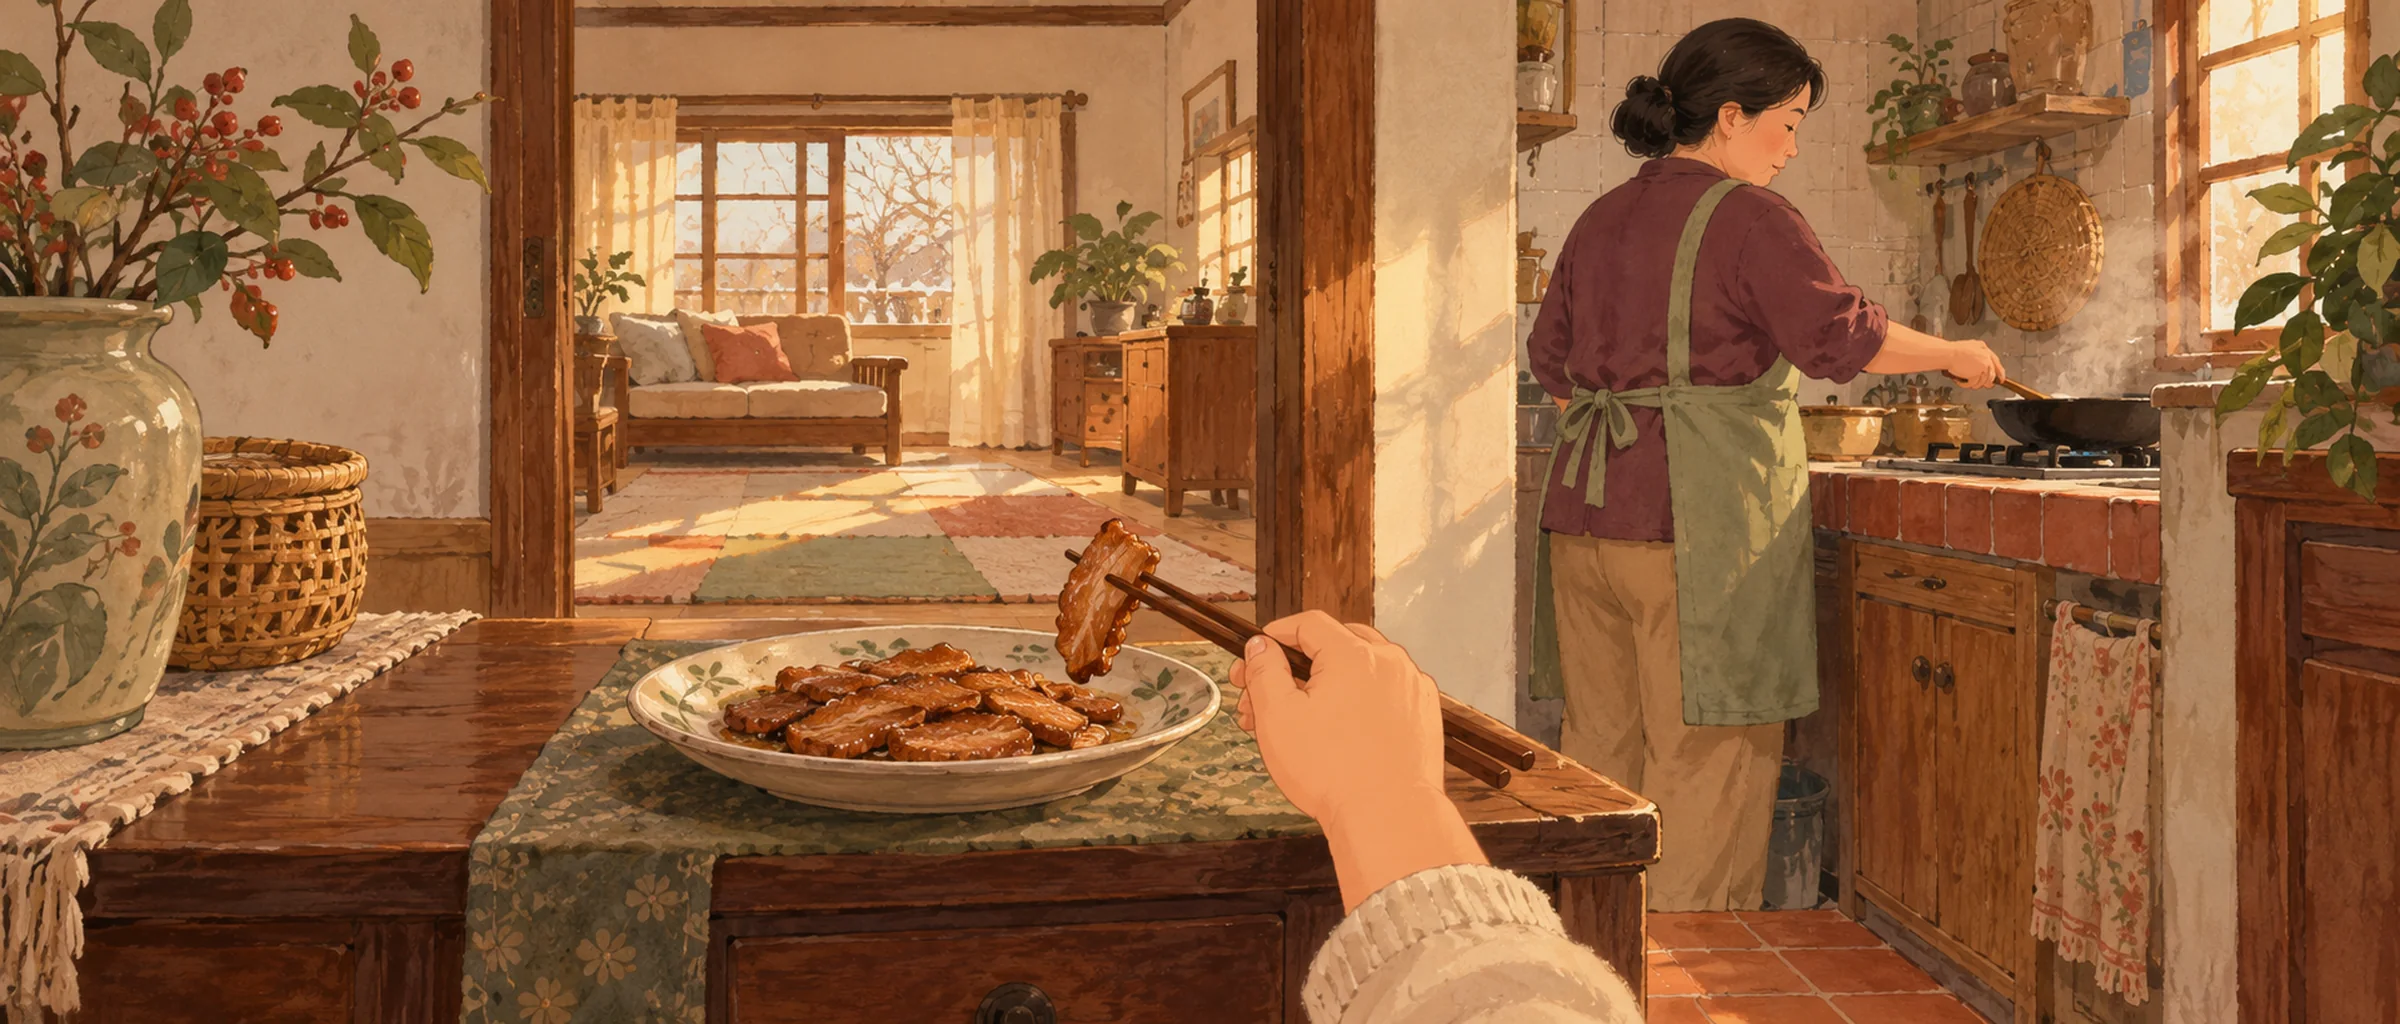
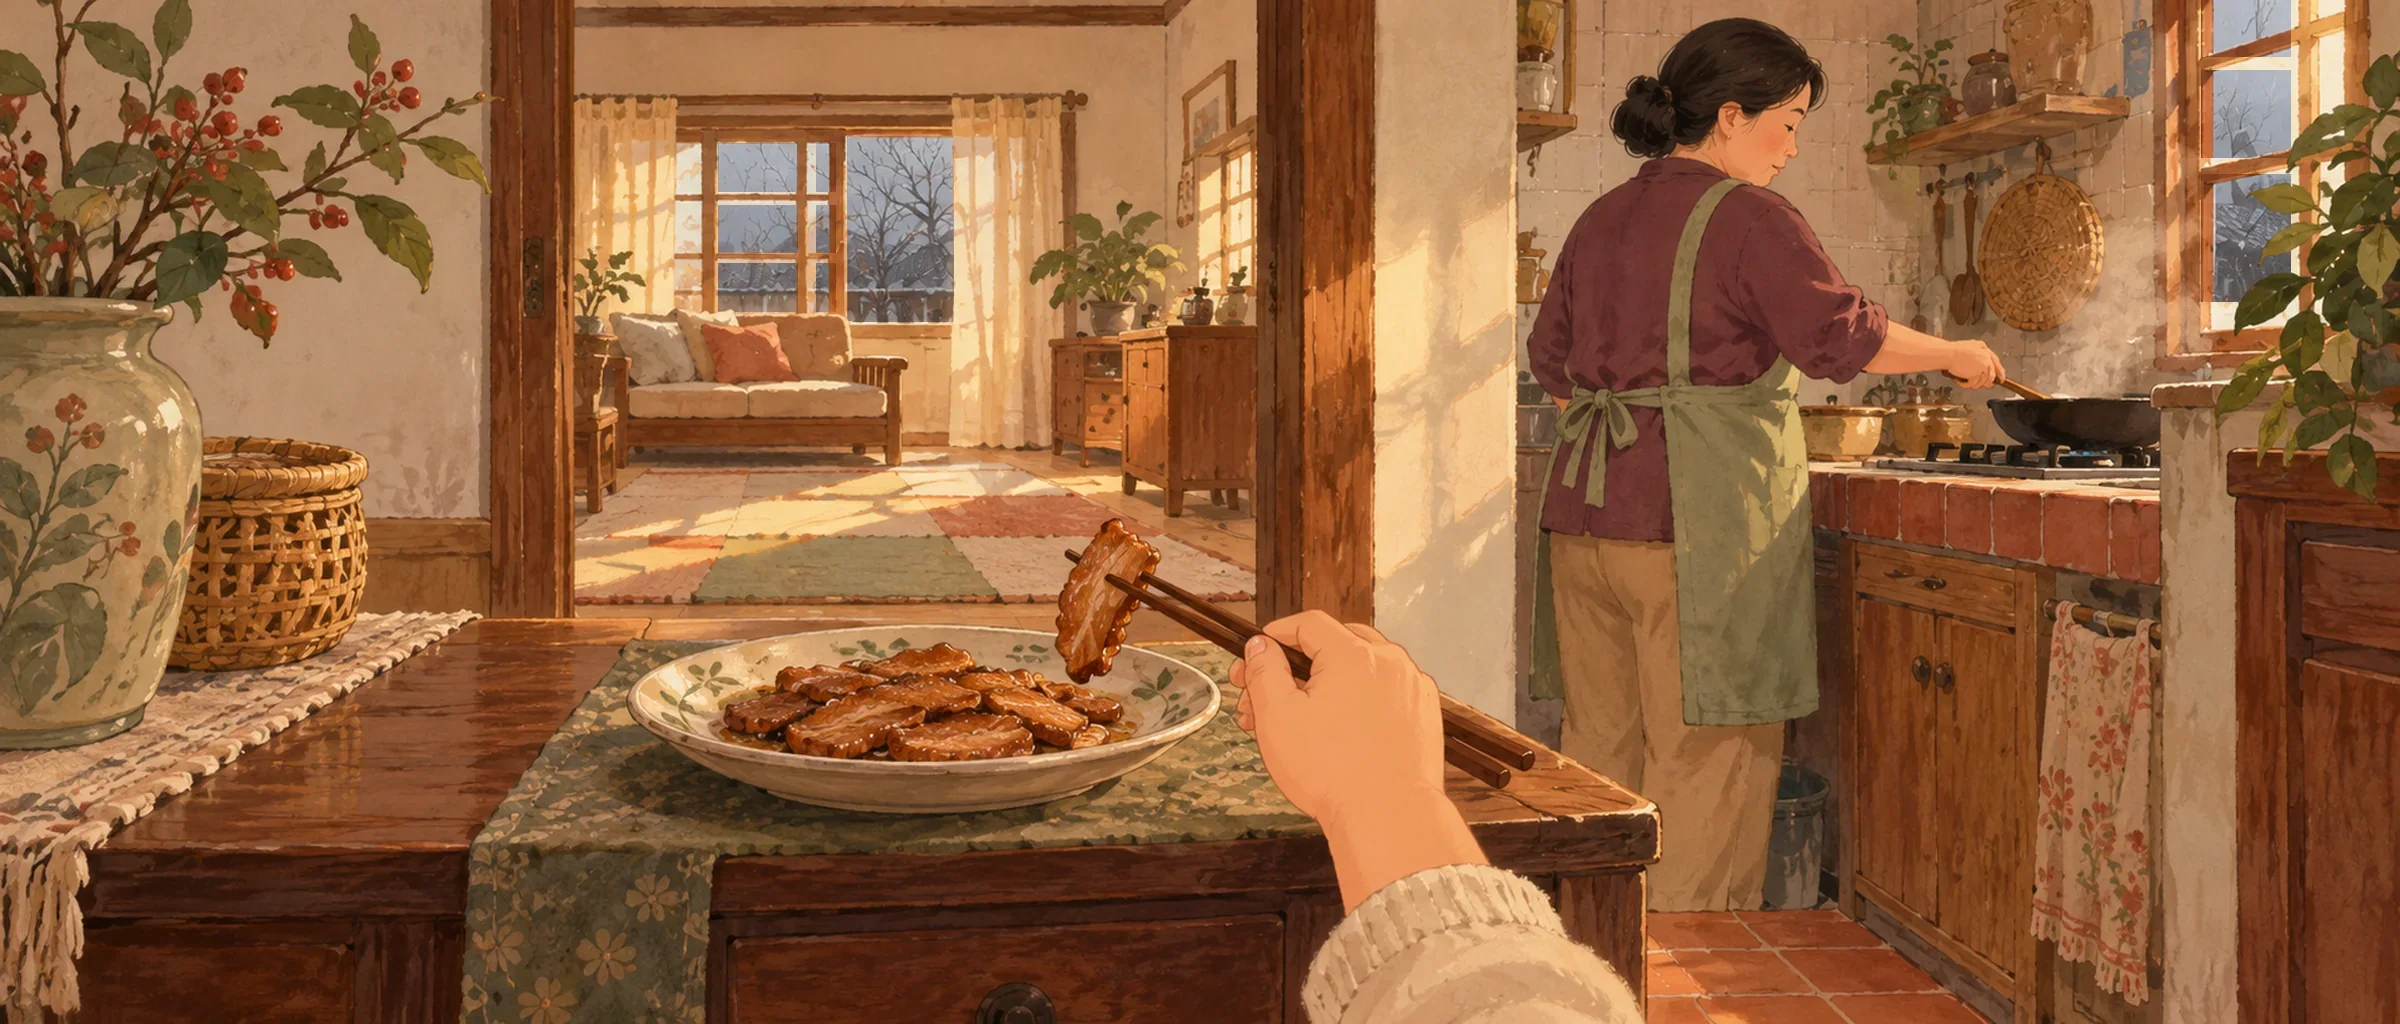
fix(mandarin): 〈羹湯〉修正單1：窗外改雨景、碗鍋改肉羹、第1幕選項圖移出碗外、第4幕標記移到臉旁並取消連線

Changed region(s): [[0.2812, 0.125, 0.4062, 0.3125], [0.9062, 0.0, 0.9688, 0.3125]]

diff --git a/apps/mandarin/src/data/situationLessons/schema.js b/apps/mandarin/src/data/situationLessons/schema.js
@@ -138,7 +138,7 @@ export function validateSituationLesson(lesson) {
       check(t.options?.length>=1 && t.options.length<=3,'strategy option count');
       if(t.revealOnResult)check(t.type==='predict' && text(t.resultReminder),'result prediction reminder');
       if(t.type==='predict'){check(t.options.length>=2 && t.options.every(text) && t.options.includes('我不確定') && t.answer===undefined,'prediction ungraded');check(t.revealAt && t.refs.some(r=>r.para===t.revealAt.para && r.sentences.includes(t.revealAt.n)),'prediction reveal');}
-      else {check(Array.isArray(t.answer) && t.answer.length>0 && t.answer.every(n=>Number.isInteger(n) && t.options[n]),'strategy answer');for(const o of t.options){check(text(o.label) && percent(o.x) && percent(o.y),'strategy hotspot');refs(o.refs);check(o.refs.length>0,'hotspot evidence');if(o.presentation!==undefined)check(o.presentation==='picture' && text(o.sprite) && percent(o.width) && o.width>0 && t.type==='emotionClue','picture clue');if(o.sprite)check(/^[\w-]+$/.test(o.sprite) && (o.width===undefined || percent(o.width) && o.width>0),'strategy sprite');if(o.face){check(percent(o.face.width) && percent(o.face.height),'face halo');check(o.markerOffset?.length===2 && o.markerOffset.every(Number.isFinite),'face marker offset');}for(const state of o.states || [])check(text(lesson.meter.states[state]),'strategy meter word');}if(t.type==='emotionClue')check(t.answer.length<=2,'emotion clue count');if(t.type==='causeEffect')check(t.result?.length===2 && t.result.every(percent) && text(t.explanation),'cause result');}
+      else {check(Array.isArray(t.answer) && t.answer.length>0 && t.answer.every(n=>Number.isInteger(n) && t.options[n]),'strategy answer');for(const o of t.options){check(text(o.label) && percent(o.x) && percent(o.y),'strategy hotspot');refs(o.refs);check(o.refs.length>0,'hotspot evidence');if(o.presentation!==undefined)check(o.presentation==='picture' && text(o.sprite) && percent(o.width) && o.width>0 && t.type==='emotionClue','picture clue');if(o.sprite)check(/^[\w-]+$/.test(o.sprite) && (o.width===undefined || percent(o.width) && o.width>0),'strategy sprite');if(o.face){check(percent(o.face.width) && percent(o.face.height),'face halo');check(o.markerOffset?.length===2 && o.markerOffset.every(Number.isFinite),'face marker offset');}for(const state of o.states || [])check(text(lesson.meter.states[state]),'strategy meter word');}if(t.type==='emotionClue')check(t.answer.length<=2,'emotion clue count');if(t.type==='causeEffect')check((t.result===undefined || Array.isArray(t.result) && t.result.length===2 && t.result.every(percent)) && text(t.explanation),'cause result');}
     }
     check(s.questions?.length>0,'questions');
     for(const q of s.questions){

diff --git a/apps/mandarin/src/data/situationLessons/115AG6H11.js b/apps/mandarin/src/data/situationLessons/115AG6H11.js
@@ -450,17 +450,17 @@ export default {
           "type": "causeEffect",
           "prompt": "宜蘭人為什麼特別愛吃羹？",
           "hint": "連起天氣和羹的特性。",
-          "focus": 50,
+          "focus": 58.75,
           "options": [
             {
               "label": "多雨溼冷，羹湯保溫祛寒",
-              "x": 46,
-              "y": 40,
+              "x": 51.5,
+              "y": 22,
               "sprite": "rain",
               "width": 4,
               "markerOffset": [
                 0,
-                14
+                12
               ],
               "refs": [
                 {
@@ -482,13 +482,13 @@ export default {
             },
             {
               "label": "羹湯比較便宜",
-              "x": 54,
-              "y": 40,
+              "x": 66,
+              "y": 50,
               "sprite": "coins",
               "width": 4,
               "markerOffset": [
                 0,
-                14
+                12
               ],
               "refs": [
                 {
@@ -519,8 +519,8 @@ export default {
             0
           ],
           "result": [
-            50,
-            61
+            50.5,
+            46
           ],
           "explanation": "多雨溼冷的天氣，配上能保溫的羹湯，滿足祛寒的需要。",
           "refs": [
@@ -2625,7 +2625,7 @@ export default {
                 "height": 24
               },
               "markerOffset": [
-                8,
+                8.25,
                 0
               ],
               "refs": [
@@ -2669,10 +2669,6 @@ export default {
           ],
           "answer": [
             0
-          ],
-          "result": [
-            50,
-            60
           ],
           "explanation": "作者看重與母親相處、撒嬌的幸福，將羹湯的溫度連到親情。",
           "refs": [

diff --git a/apps/mandarin/docs/first-person-IMPL-LOG.md b/apps/mandarin/docs/first-person-IMPL-LOG.md
@@ -50,6 +50,20 @@
   8. 觸控／滑鼠／Tab與Enter、喇叭／自動朗讀、音效與三種動畫設定、重玩／重載／已讀回顧；五舊課至少回歸水滾了、老鞋匠、存根、小鉛筆、寄居蟹，確認新選用欄位未改其操作。
 
 
+### 修正單1（2026-10-23）
+- 依本單只改檔；未執行任何 git 指令、未 commit／push／合併／部署。保留 Claude 在 `strategies.js` 已完成的「臉旁標記起線／省略 result 不畫線」實作，本次未修改該檔。
+- **窗外雪→細雨**：`kitchen.webp` 背景窗、`stove.webp`／`stove-clear.webp`／`stove-drop.webp`／`stove-scoop.webp`／`stove-fry.webp`／`stove-pour.webp` 左窗、`serve.webp`／`serve-before.webp` 背景窗、`door.webp` 客廳及右側廚房窗；只取內建編輯的窗格區域，灰藍天、雨絲、溼深色屋瓦。爐臺六張共用同一雨窗，盛湯前後共用同一雨窗；室內與人物不作全圖重畫。
+- **肉羹內容**：`table.webp` 碗內、`stove.webp` 鍋／勺內、`stove-pour.webp` 勾芡中的鍋內、`serve.webp` 大鍋／勺／羹流／飯上羹料、`serve-before.webp` 大鍋／勺、`sprites/soup.webp` 碗內。統一為淡色粗糙魚漿裹肉條、筍絲／木耳／白菜、半透明濃稠湯汁；不再用排骨塊／蘿蔔清湯。較早的清水、下肉、撈肉、炒料仍維持程序狀態；淋羹前的飯保持白飯，湯勺／鍋緣／木匙／澱粉水流與人物保留。
+- **摘要同步**：`sprites/summary-warm.webp`／`summary-mix.webp`／`summary-cook.webp`／`summary-taste.webp`／`summary-care.webp` 從修正場景重裁相同720×300。共改17件WebP（11場景、1羹碗、5摘要）；bike、雨窗選項小圖及summary-bike保留。
+- **第1幕因果版面**：rain=(51.5,22)、coins=(66,50)、width=4、focus=58.75，markerOffset均為[0,12]；雨卡靠窗、硬幣在碗右的桌面，卡片／44px標記彼此分離、不碰碗。result=[50.5,46]落在碗後緣，既有二次曲線全段位於湯面上方。
+- **第4幕主旨**：母親選項markerOffset改[8.25,0]，完整44px標記避開臉框；刪該題result以免曲線穿臉。`schema.js`同步允許causeEffect省略result，有設時仍驗座標與explanation，不改其他題的連線。
+- **測試更新**：`scripts/test-situation-soup.mjs`補第1幕卡片與標記不碰碗／彼此分開、四尺寸完整可見、標記在圖正下方、終點在碗後緣與曲線不入湯；第4幕整個44px標記在臉框外、選正解後不產生連線、非法result仍拒絕。可見性由132增至148項，四尺寸含678×771與375×812。
+- **素材紀錄**：內建image_gen編輯8次成功，未走draw／API腳本；原始輸出、原圖解碼PNG、精確遮罩、無損合成、兩輪窗格遮罩修正、最終總覽／縮圖、像素稽核及合成腳本均在 `~/mandarin-work/first-person-samples/6A11/fix1/`。逐張自看窗緣／窗框、接縫、色調及肉羹外觀；初版暖色排除造成外牆／舊雪色塊已退件，改精確窗格多邊形並修斜窗臺與內層格框。
+- **像素限制如實記錄**：12張局部合成PNG（含羹碗sprite）遮罩外差異為0；sprite原始alpha保留。網頁WebP依每圖與整課4MiB上限有損重編碼，不能保證遮罩外逐像素不變；`pixel-audit.json`分列無損PNG與交付WebP差異。
+- **驗證**：`npm run validate`、全部115支 `scripts/test-*.mjs`、`npm run build`、`npm run check-dist`／assets、`npm run build:preview`均通過；最終本課148項四尺寸可見性通過。初次check-assets發現單課4.25MiB，已壓至4,036,972 bytes（低於4MiB），再跑全部115支測試與建置／dist檢查通過。僅既有bundle／動態匯入提示。
+- **Claude實玩**：四尺寸查看第1幕雨卡／右桌硬幣與圖下標記、碗後緣連線；第4幕臉旁標記與選正解無線；爐臺連續切圖窗外一致、清水到勾芡的程序、盛湯前白飯／盛湯後肉羹與所有摘要一致。預覽啟動遭環境 `listen EPERM 127.0.0.1:4173`；本回合沒有可用的內建瀏覽器執行工具，未宣稱瀏覽器／教學驗收完成。
+
+
 ## 2026-10-23｜寄居蟹找新家｜115AG3H08｜待 Claude 四尺寸實玩
 
 ### 修改範圍與適切引導

diff --git a/HANDOFF.md b/HANDOFF.md
@@ -1,5 +1,12 @@
 # 交接紀錄（最新的寫在最上面）
 
+## 2026-10-23｜家中 Mac｜Codex｜羹湯修正單1：完成改檔，待 Claude 實玩／提交
+- 依本單只改檔，全程未執行任何 git，未 commit／push／合併／部署。保留 Claude 的 strategies.js 臉旁起線／無 result 不畫線邏輯，該檔未修改。
+- 10張有窗場景局部雪→宜蘭細雨／溼屋瓦；爐臺六張、盛湯前後各共用雨窗。table、完成stove、stove-pour、serve／serve-before及羹碗sprite內容改魚漿裹肉條、筍絲／木耳／白菜、半透明濃羹；淋羹前保留白飯。另同步5張摘要，共17件WebP；整課4,036,972 bytes，低於4MiB。
+- 第1幕雨卡靠窗、硬幣在碗右桌面，圖下markerOffset，四尺寸均可見且不碰碗；result移碗後緣，曲線不入湯。第4幕markerOffset=[8.25,0]避臉並刪result；schema接受省略result，有設時仍驗值。更新test-situation-soup.mjs：148項四尺寸可見、卡／標記避碗、整個44px標記避臉與選正解無線。
+- 內建編輯8次成功，逐張自看接縫／色調與縮圖；原圖PNG、生成PNG、遮罩、無損合成、兩輪窗格遮罩修正、像素稽核／腳本／總覽留 ~/mandarin-work/first-person-samples/6A11/fix1/。PNG遮罩外差異0；網頁WebP為容量限制有損重編碼，無法保證其餘像素完全相同，限制已記錄。
+- 最終validate、全部115支測試、build、check-dist／assets、build:preview全通過。預覽伺服器listen EPERM，內建瀏覽器執行工具不可用；仍待Claude四尺寸實玩雨窗切圖、肉羹／白飯前後、因果小圖與主旨臉旁標記。詳見first-person-IMPL-LOG.md本課「修正單1」。
+
 ## 2026-10-23｜家中 Mac｜Codex｜來一碗溫暖的羹湯：待 Claude 四尺寸實玩／提交
 - 依本單只改檔，全程未執行任何git、未開Chrome、未commit／push／合併／部署；分支、提交與瀏覽器驗收交Claude。
 - 新增115AG6H11四幕，四組三圖摘要＋第3幕六步製作排序；89單位排除課名0，88正文按14／16／22／36依序唯一覆蓋。正式密文／本機來源與hash核對；母親對白只標1:29–30，其餘speakers空，不啟用scriptTap。
